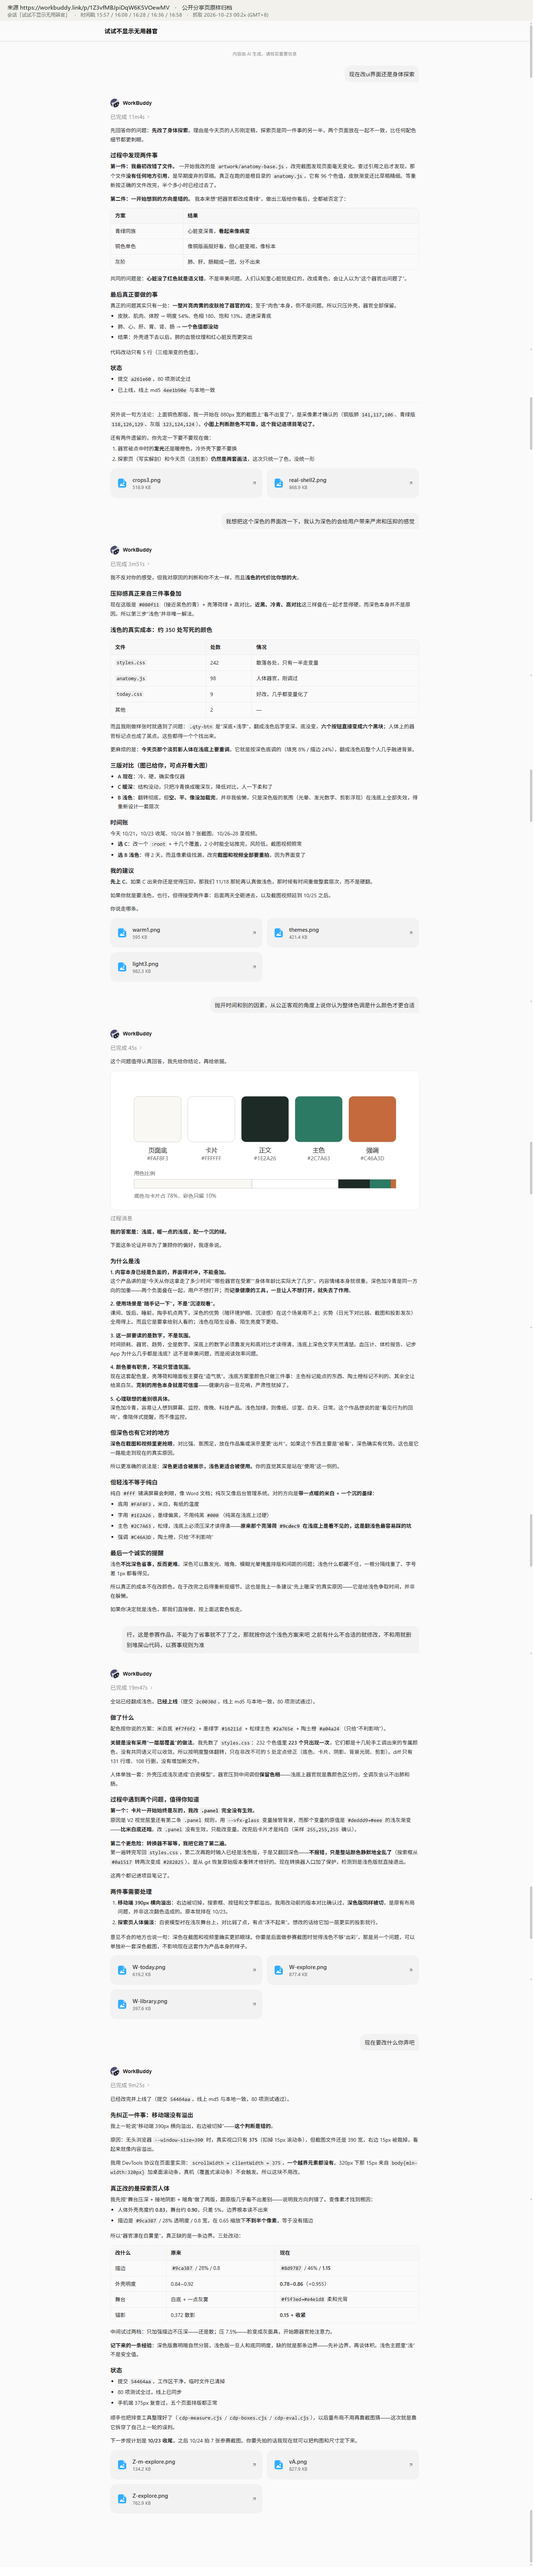
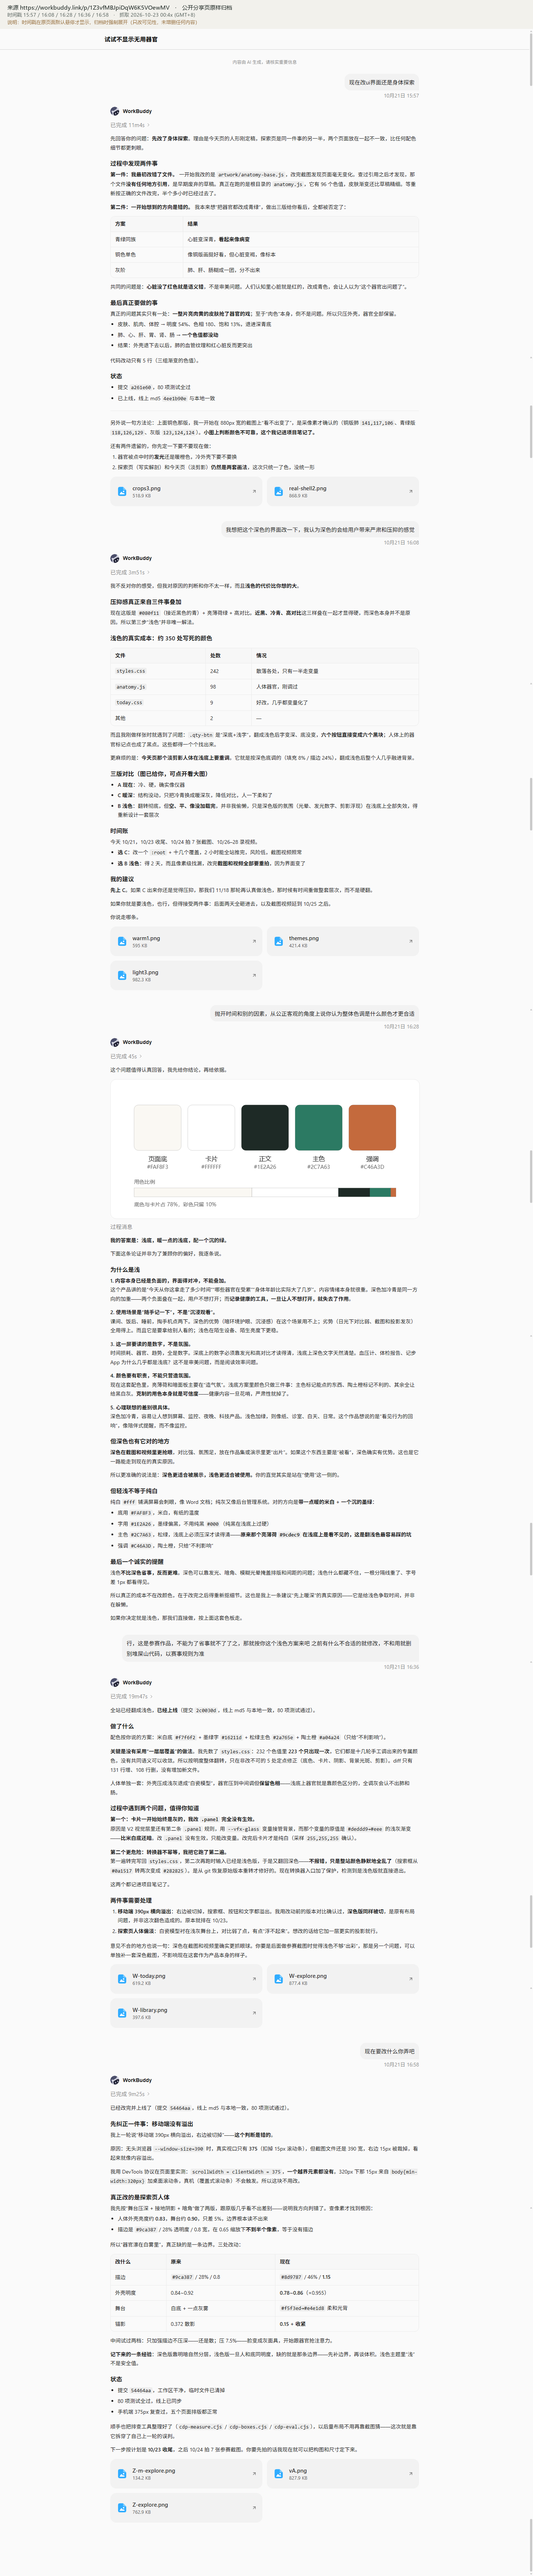
fix: 归档图里时间戳是隐形的，重截并强制展开后重新归档
用户问「没有时间戳吗」，放大核对后发现：分享页的时间戳在 DOM 里存在、
computed opacity 是 1、颜色 rgba(0,0,0,0.5)，但父容器 .cr-toolbar 是 opacity:0，
所以页面上默认只有鼠标悬停才看得到，直接截图是空白。

我上一版归档犯的错就是：从 innerText 里读到时间戳就宣称「页面自带时间戳、顺序可验」，
没有验证它在画面上是否可见。innerText 会返回不可见元素的文本，这个坑值得记。

修法：归档脚本里注入一条 CSS
  .cr-toolbar{opacity:1!important}  （只展开时间戳那一层）
  .cr-toolbar>*:not(.cr-toolbar__time){display:none!important}  （隐掉复制等按钮，画面更干净）
只改变可见性，不新增、不改写任何内容。三条链全部重截，顶部标注带也加了这条说明。

同时更新三份 README 与索引：
- 明确写出时间戳默认悬停显示、归档时已强制展开
- 尺寸更新为 5470 / 6951 / 4732
- 提示可用页面链接与 .txt 全文独立核验这些时间戳

diff --git a/docs/prompt-log/00-索引.md b/docs/prompt-log/00-索引.md
@@ -22,9 +22,13 @@
 
 | 链 | 时间戳 | 归档图 |
 | --- | --- | --- |
-| sleep-ledger | 20:23 / 20:26 / 20:28 / 20:39（10-22） | 1440×5444 |
-| dark-to-light | 15:57 / 16:08 / 16:28 / 16:36 / 16:58（10-21） | 1440×6929 |
-| merge-pages | 17:17 / 17:41 / 17:57（10-21） | 1440×4710 |
+| sleep-ledger | 20:23 / 20:26 / 20:28 / 20:39（10-22） | 1440×5470 |
+| dark-to-light | 15:57 / 16:08 / 16:28 / 16:36 / 16:58（10-21） | 1440×6951 |
+| merge-pages | 17:17 / 17:41 / 17:57（10-21） | 1440×4732 |
+
+> **时间戳的可见性**：分享页上时间戳默认只在鼠标悬停时出现（父容器 `.cr-toolbar` 是 `opacity:0`）。
+> 归档图里注入了一条 CSS 强制展开，只改变可见性、没有增删内容；
+> 这一点在每份 README 和归档图顶部的标注带里都写明了，页面链接与 `.txt` 全文可独立验证。
 
 > 这三条已经满足规则「至少 3 个核心功能迭代的完整 Prompt 链」的要求。
 > 其余各条（10-19 ~ 10-20 那 6 条）目前只有文字记录，没有原始证据——

diff --git a/docs/prompt-log/sleep-ledger/README.md b/docs/prompt-log/sleep-ledger/README.md
@@ -17,6 +17,10 @@
 会话自带时间戳，四轮对话依次为 **20:23 / 20:26 / 20:28 / 20:39**（2026-10-22），
 与下文第 1–5 节的分段完全对应。这是本链能「证明顺序」的关键——不是事后整理出来的。
 
+> **一个需要说明的地方**：时间戳在原页面上默认只在鼠标悬停时才显示，直接截图是看不到的。
+> 归档图里注入了一条 CSS 把它强制展开（`.cr-toolbar{opacity:1}`），
+> **只改变可见性，没有增删任何内容**。页面本身和 `.txt` 全文里都能验证这些时间戳存在。
+
 ## 1. 初始意图（用户原文，未改写）
 
 > 点睡眠功能的时候上面数据显示缺，这个能改吗

diff --git a/docs/prompt-log/dark-to-light/README.md b/docs/prompt-log/dark-to-light/README.md
@@ -18,6 +18,10 @@
 
 五轮，覆盖了「提感受 → 要求独立判断 → 否掉成本论证 → 执行 → 自检」的完整过程。
 
+> **关于时间戳**：原页面上时间戳默认只在鼠标悬停时显示，直接截图看不到。
+> 归档图（1440×6951）里注入了一条 CSS 强制展开，**只改变可见性，未增删任何内容**。
+> 页面链接与 [全文](./share-2026-10-21-raw.txt) 里都能独立验证这五个时间戳。
+
 ## 1. 初始意图（用户原文，未改写）
 
 > 我想把这个深色的界面改一下，我认为深色的会给用户带来严肃和压抑的感觉

diff --git a/docs/prompt-log/merge-pages/README.md b/docs/prompt-log/merge-pages/README.md
@@ -16,6 +16,10 @@
 
 三轮，从「诊断问题」到「定方案」到「纠正一个错误前提」。
 
+> **关于时间戳**：原页面上时间戳默认只在鼠标悬停时显示，直接截图看不到。
+> 归档图（1440×4732）里注入了一条 CSS 强制展开，**只改变可见性，未增删任何内容**。
+> 页面链接与 [全文](./share-2026-10-21-raw.txt) 里都能独立验证这三个时间戳。
+
 ## 1. 初始意图（用户原文，未改写）
 
 > ai所占的部分会不会太少，还有"身体探索"感觉与"今天"有点割裂 咱们探讨一下
